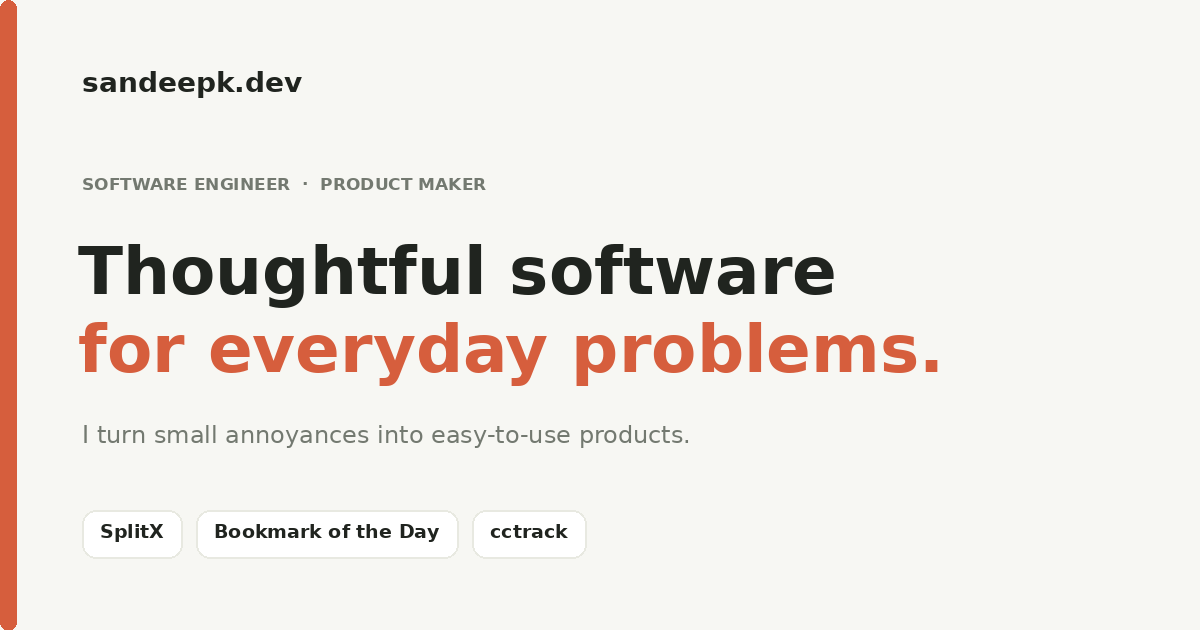
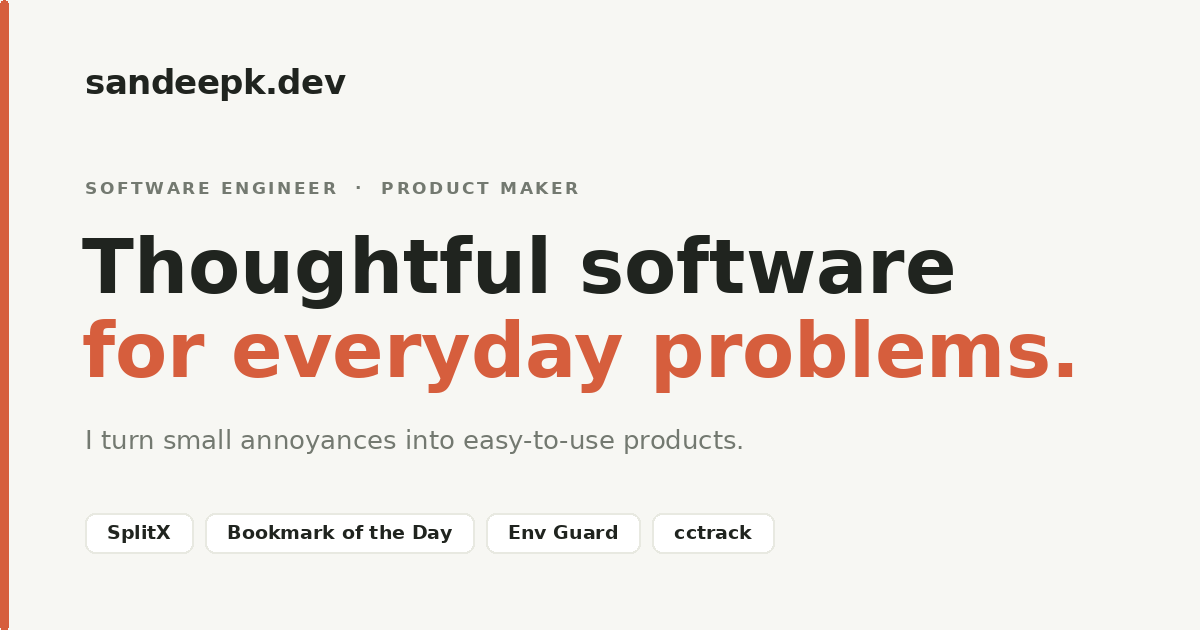
feat(portfolio): relaunch homepage as a product portfolio (#3)
* feat(portfolio): redesign homepage to showcase indie products

* feat(portfolio): add Env Guard to featured products

List the Env Guard Chrome extension alongside the existing products,
with its icon, Chrome Web Store link, and refreshed meta description
and social preview that include it.

diff --git a/assets/css/main.css b/assets/css/main.css
@@ -265,6 +265,13 @@ body[a="auto"] img {
   border: 1px solid #eee7fa;
 }
 
+.envguard-icon {
+  padding: 7px;
+  border: 1px solid #f0e4dd;
+  background: #fff6f1;
+  object-fit: contain;
+}
+
 .product-category {
   margin: 0 0 2px;
   color: var(--muted);

diff --git a/index.md b/index.md
@@ -1,12 +1,12 @@
 ---
 layout: portfolio
 title: Sandeep Choudhary | Software Engineer & Product Maker
-description: Sandeep Choudhary builds thoughtful, easy-to-use products that solve everyday problems, including SplitX, Bookmark of the Day, and cctrack.
+description: Sandeep Choudhary builds thoughtful, easy-to-use products that solve everyday problems, including SplitX, Bookmark of the Day, Env Guard, and cctrack.
 image:
   path: /assets/images/social-preview.png
   width: 1200
   height: 630
-  alt: Sandeep Choudhary's portfolio featuring SplitX, Bookmark of the Day, and cctrack
+  alt: Sandeep Choudhary's portfolio featuring SplitX, Bookmark of the Day, Env Guard, and cctrack
 seo:
   type: Person
   name: Sandeep Choudhary
@@ -41,7 +41,7 @@ seo:
             <p class="eyebrow">Made to be useful</p>
             <h2 id="products-title">Products &amp; experiments</h2>
           </div>
-          <span class="product-count">3 projects</span>
+          <span class="product-count">4 projects</span>
         </div>
 
         <div class="product-list">
@@ -72,6 +72,21 @@ seo:
             <div class="product-footer">
               <div class="product-proof"><span class="live-label"><span class="status-dot" aria-hidden="true"></span> Active</span><span class="proof-divider" aria-hidden="true"></span><span>38 active users</span></div>
               <a class="try-link" href="https://bookmarkoftheday.sandeepk.dev/" target="_blank" rel="noopener noreferrer">Try Bookmark of the Day <span aria-hidden="true">↗</span></a>
+            </div>
+          </article>
+
+          <article class="product-card envguard-card">
+            <div class="product-identity">
+              <img class="product-icon envguard-icon" src="/assets/images/envguard-icon.png" alt="Env Guard extension icon" width="76" height="76" />
+              <div>
+                <p class="product-category">For developers</p>
+                <h3>Env Guard</h3>
+              </div>
+            </div>
+            <p class="product-description">Stop confusing production with staging. Env Guard adds a color-coded border to the URLs you choose, right in your browser.</p>
+            <div class="product-footer">
+              <div class="product-proof"><span class="live-label"><span class="status-dot" aria-hidden="true"></span> Live</span><span class="proof-divider" aria-hidden="true"></span><span>Free &amp; open source</span></div>
+              <a class="try-link" href="https://chromewebstore.google.com/detail/env-guard/ieedmpaefmifnkooblmidnkoapcojanj" target="_blank" rel="noopener noreferrer">Add to Chrome <span aria-hidden="true">↗</span></a>
             </div>
           </article>
 
